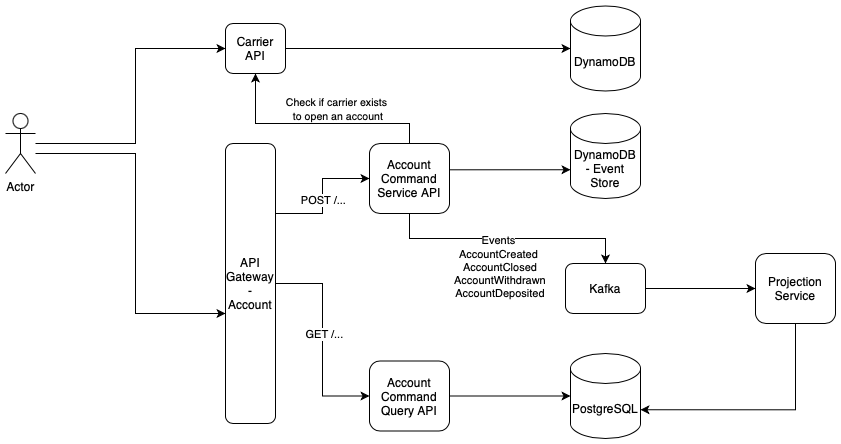
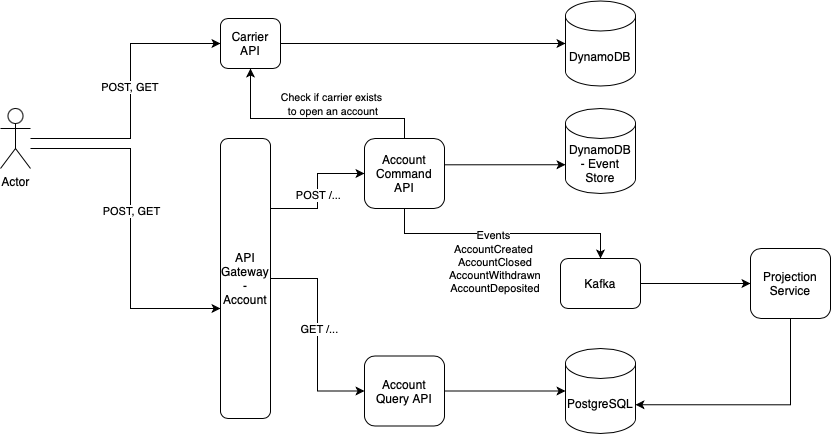
doc: fix architecture drawing

diff --git a/readme.md b/readme.md
@@ -8,7 +8,7 @@ A Dock busca revolucionar o mercado financeiro com uma nova conta digital que pe
 
 A solução foi construída utilizando os padrões de **CQRS (Command Query Responsibility Segregation)** e **Event Sourcing**. Esses conceitos permitem separar as operações de escrita (comandos) das operações de leitura (consultas), resultando em um sistema mais escalável e responsivo.
 
-Uma solução de melhoria, seria adicionar uma camada de cache (Elasticache / Redis) para melhorar a perfomance da aplicação de consulta, uma vez que os dados irão crescer (por exemplo, consulta de extrato). Porém isso exige adição de mais complexidade ao projeto, uma vez que a aplicacação de projeção também seria responsável por manipular o cache.
+Uma solução de melhoria, seria adicionar uma camada de cache (Elasticache / Redis) para melhorar a perfomance da aplicação de consulta, uma vez que os dados irão crescer (por exemplo, consulta de extrato). Porém isso exige adição de mais complexidade ao projeto, pois a aplicacação de projeção também seria responsável por manipular o cache.
 
 ### Vantagens de CQRS e Event Sourcing:
 
